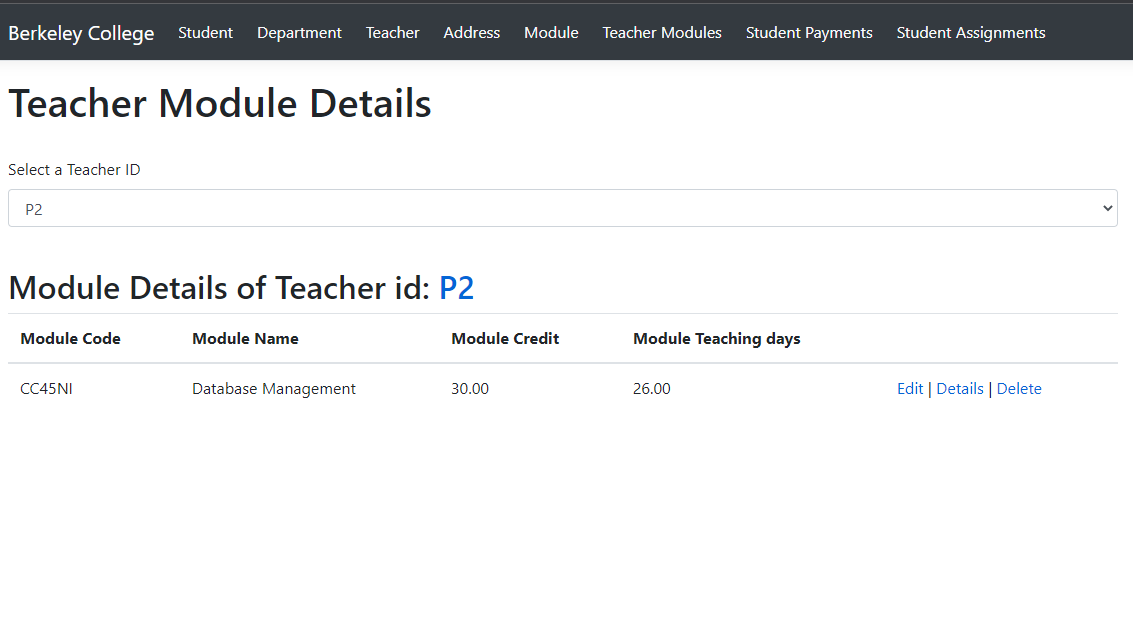
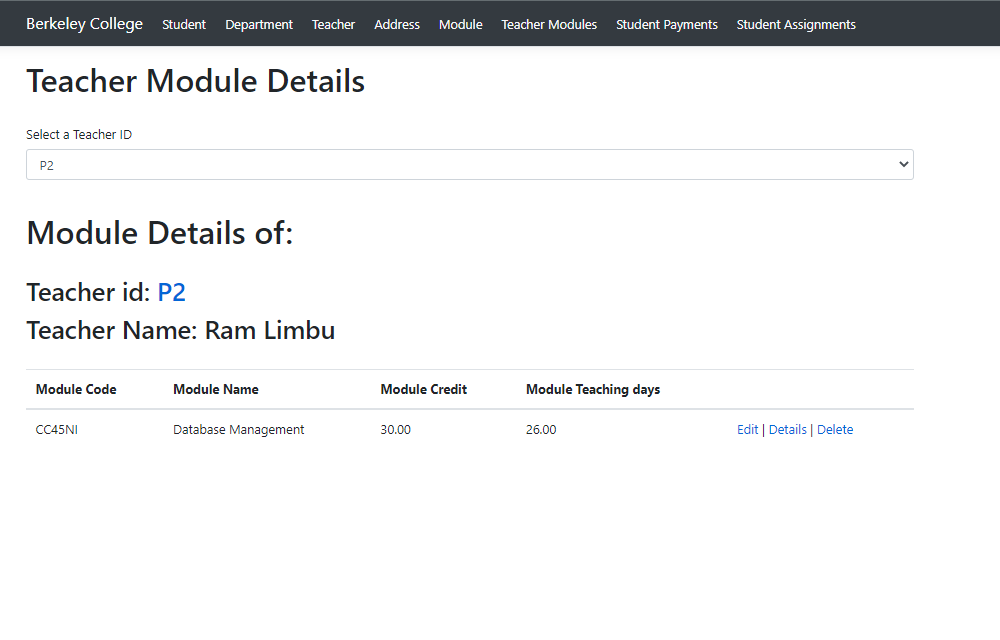
Complex forms changes

diff --git a/19031002 Ishan chemjong_Code/Berkeley_College-master/Controllers/StudentAssignmentController.cs b/19031002 Ishan chemjong_Code/Berkeley_College-master/Controllers/StudentAssignmentController.cs
@@ -29,6 +29,7 @@ namespace berkeley_college.Controllers
             ViewData["StudentId"] = new SelectList(_context.Student, "PersonId", "PersonId");
             ViewBag.student = (await _context.Student.FromSqlRaw($"select * from student where person_id= '{id}'").ToListAsync())[0];
             ViewBag.results = await _context.ResultInfo.FromSqlRaw($"select * from result_info where student_id='{id}'").ToListAsync();
+            ViewBag.Student.Person = (await _context.Person.FromSqlRaw($"select * from person where person_id  = '{ViewBag.Student.PersonId}'").ToListAsync())[0];
             foreach (var result in ViewBag.results)
             {
                 result.Assignment = (await _context.Assignment.FromSqlRaw($"select * from assignment where assignment_id= '{result.AssignmentId}'").ToListAsync())[0];

diff --git a/19031002 Ishan chemjong_Code/Berkeley_College-master/Controllers/TeachersModulesController.cs b/19031002 Ishan chemjong_Code/Berkeley_College-master/Controllers/TeachersModulesController.cs
@@ -26,6 +26,7 @@ namespace berkeley_college.Controllers
             ViewData["TeacherId"] = new SelectList(_context.Teacher, "PersonId", "PersonId");
             ViewBag.Teacher = (await _context.Teacher.FromSqlRaw($"select * from teacher where person_id= '{id}'").ToListAsync())[0];
             ViewBag.Modules = await _context.Module.FromSqlRaw($"select * from module where module_id in (select module_id from teacher_module_info where teacher_id ='{id}')").ToListAsync();
+            ViewBag.Teacher.Person = (await _context.Person.FromSqlRaw($"select * from person where person_id  = '{ViewBag.Teacher.PersonId}'").ToListAsync())[0];
             return View();
         }
     }

diff --git a/19031002 Ishan chemjong_Code/Berkeley_College-master/Controllers/StudentPayment.cs b/19031002 Ishan chemjong_Code/Berkeley_College-master/Controllers/StudentPayment.cs
@@ -29,6 +29,7 @@ namespace berkeley_college.Controllers
             ViewData["StudentId"] = new SelectList(_context.Student, "PersonId", "PersonId");
             ViewBag.student = (await _context.Student.FromSqlRaw($"select * from student where person_id= '{id}'").ToListAsync())[0];
             ViewBag.payments = await _context.StudentFeePayment.FromSqlRaw($"select * from student_fee_payment where student_id='{id}'").ToListAsync();
+            ViewBag.Student.Person = (await _context.Person.FromSqlRaw($"select * from person where person_id  = '{ViewBag.Student.PersonId}'").ToListAsync())[0];
             return View();
         }
     }
